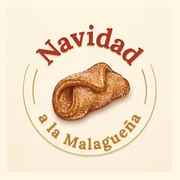
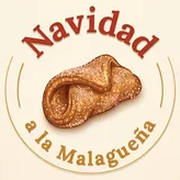
Icono de la pestaña con el sello de Navidad a la Malagueña (#6)
Añade favicon.ico (lo piden Safari y Google), recorta el sello para que
llene el icono y versiona los enlaces para que los navegadores dejen de
mostrar el icono antiguo guardado en caché.

Claude-Session: https://claude.ai/code/session_019w3N4vGLTzPmDHH7txA7v5

diff --git a/pestinos-malaga.html b/pestinos-malaga.html
@@ -19,9 +19,9 @@
   <meta property="og:image:height" content="630" />
   <meta property="article:modified_time" content="2026-10-27" />
   <meta name="twitter:card" content="summary_large_image" />
-  <link rel="icon" href="/favicon.svg" type="image/svg+xml" />
-  <link rel="icon" href="/favicon-48.png" type="image/png" sizes="48x48" />
-  <link rel="apple-touch-icon" href="/apple-touch-icon.png" />
+  <link rel="icon" href="/favicon.ico?v=3" sizes="any" />
+  <link rel="icon" href="/icon-192.png?v=3" type="image/png" sizes="192x192" />
+  <link rel="apple-touch-icon" href="/apple-touch-icon.png?v=3" />
   <link rel="preload" href="/fonts/fraunces-latin-opsz-normal.woff2" as="font" type="font/woff2" crossorigin />
   <link rel="preload" href="/fonts/dm-mono-latin-400.woff2" as="font" type="font/woff2" crossorigin />
   <script type="application/ld+json">{"@context": "https://schema.org", "@graph": [{"@type": "BreadcrumbList", "itemListElement": [{"@type": "ListItem", "position": 1, "name": "Inicio", "item": "https://www.xn--navidadalamalaguea-30b.com/"}, {"@type": "ListItem", "position": 2, "name": "Pestiños caseros con miel en Málaga", "item": "https://www.xn--navidadalamalaguea-30b.com/pestinos-malaga"}]}, {"@type": "WebPage", "@id": "https://www.xn--navidadalamalaguea-30b.com/pestinos-malaga", "url": "https://www.xn--navidadalamalaguea-30b.com/pestinos-malaga", "name": "Pestiños caseros con miel en Málaga · Navidad a la Malagueña", "dateModified": "2026-10-27", "speakable": {"@type": "SpeakableSpecification", "cssSelector": ["#resumen"]}, "description": "Pestiños caseros con miel hechos a mano en Málaga, en una caja de Navidad de 25 € lista para regalar. Gratis en Málaga capital y 3 € al resto de España.", "inLanguage": "es-ES", "about": {"@id": "https://www.xn--navidadalamalaguea-30b.com/#negocio"}, "mainEntity": {"@id": "https://www.xn--navidadalamalaguea-30b.com/pedido"}, "primaryImageOfPage": "https://www.xn--navidadalamalaguea-30b.com/img/dulces/pestinos-1000.webp"}, {"@type": "FAQPage", "mainEntity": [{"@type": "Question", "name": "¿Cuánto duran los pestiños caseros?", "acceptedAnswer": {"@type": "Answer", "text": "Hasta 20 días, bien cerrados en su caja o en una lata, en sitio fresco y seco. No hace falta nevera: la humedad los ablanda."}}, {"@type": "Question", "name": "¿Los pestiños llevan miel o azúcar?", "acceptedAnswer": {"@type": "Answer", "text": "Las dos versiones son tradicionales y tú eliges al pedir. La de miel es la más malagueña; la de azúcar, la que menos pringa. El precio no cambia."}}, {"@type": "Question", "name": "¿Qué diferencia hay entre pestiños y borrachuelos?", "acceptedAnswer": {"@type": "Answer", "text": "El pestiño es una tira de masa doblada, sin relleno, con ajonjolí y matalahúva. El borrachuelo es una empanadilla con vino moscatel en la masa y relleno de cabello de ángel. Los dos van en la caja."}}, {"@type": "Question", "name": "¿Hacéis envíos fuera de Málaga?", "acceptedAnswer": {"@type": "Answer", "text": "Sí, a toda España por Correos, por 3 €, con salida los lunes. De momento no enviamos fuera de España."}}, {"@type": "Question", "name": "¿Puedo pedir pestiños para mi empresa?", "acceptedAnswer": {"@type": "Answer", "text": "Sí. Escríbenos por WhatsApp al +34 744 47 52 39 con el número de cajas y la fecha, y te preparamos el pedido y el envío conjunto."}}]}]}</script>

diff --git a/borrachuelos-malaguenos.html b/borrachuelos-malaguenos.html
@@ -19,9 +19,9 @@
   <meta property="og:image:height" content="630" />
   <meta property="article:modified_time" content="2026-10-07" />
   <meta name="twitter:card" content="summary_large_image" />
-  <link rel="icon" href="/favicon.svg" type="image/svg+xml" />
-  <link rel="icon" href="/favicon-48.png" type="image/png" sizes="48x48" />
-  <link rel="apple-touch-icon" href="/apple-touch-icon.png" />
+  <link rel="icon" href="/favicon.ico?v=3" sizes="any" />
+  <link rel="icon" href="/icon-192.png?v=3" type="image/png" sizes="192x192" />
+  <link rel="apple-touch-icon" href="/apple-touch-icon.png?v=3" />
   <link rel="preload" href="/fonts/fraunces-latin-opsz-normal.woff2" as="font" type="font/woff2" crossorigin />
   <link rel="preload" href="/fonts/dm-mono-latin-400.woff2" as="font" type="font/woff2" crossorigin />
   <script type="application/ld+json">{"@context": "https://schema.org", "@graph": [{"@type": "BreadcrumbList", "itemListElement": [{"@type": "ListItem", "position": 1, "name": "Inicio", "item": "https://www.xn--navidadalamalaguea-30b.com/"}, {"@type": "ListItem", "position": 2, "name": "Borrachuelos de Málaga", "item": "https://www.xn--navidadalamalaguea-30b.com/borrachuelos-malaguenos"}]}, {"@type": "WebPage", "@id": "https://www.xn--navidadalamalaguea-30b.com/borrachuelos-malaguenos", "url": "https://www.xn--navidadalamalaguea-30b.com/borrachuelos-malaguenos", "name": "Borrachuelos malagueños caseros · Navidad a la Malagueña", "dateModified": "2026-10-07", "speakable": {"@type": "SpeakableSpecification", "cssSelector": ["#resumen"]}, "description": "Borrachuelos de Málaga al vino moscatel, rellenos de cabello de ángel y pasados por azúcar. Hechos a mano con la receta de la abuela. En nuestra caja de Navidad, 25 €.", "inLanguage": "es-ES", "about": {"@id": "https://www.xn--navidadalamalaguea-30b.com/#negocio"}, "primaryImageOfPage": "https://www.xn--navidadalamalaguea-30b.com/img/dulces/borrachuelos-1000.webp"}, {"@type": "FAQPage", "mainEntity": [{"@type": "Question", "name": "¿Los borrachuelos llevan alcohol?", "acceptedAnswer": {"@type": "Answer", "text": "La masa lleva vino moscatel, pero al freírse la mayor parte del alcohol se evapora. Si tienes dudas, pregúntanos."}}, {"@type": "Question", "name": "¿Qué alérgenos llevan?", "acceptedAnswer": {"@type": "Answer", "text": "Llevan harina de trigo (gluten). Pregúntanos si tienes cualquier otra alergia."}}]}]}</script>

diff --git a/la-sobremesa/plantilla-articulo.html b/la-sobremesa/plantilla-articulo.html
@@ -32,9 +32,9 @@
   <meta property="og:image:height" content="630" />
   <meta property="article:modified_time" content="2026-11-01" />
   <meta name="twitter:card" content="summary_large_image" />
-  <link rel="icon" href="/favicon.svg" type="image/svg+xml" />
-  <link rel="icon" href="/favicon-48.png" type="image/png" sizes="48x48" />
-  <link rel="apple-touch-icon" href="/apple-touch-icon.png" />
+  <link rel="icon" href="/favicon.ico?v=3" sizes="any" />
+  <link rel="icon" href="/icon-192.png?v=3" type="image/png" sizes="192x192" />
+  <link rel="apple-touch-icon" href="/apple-touch-icon.png?v=3" />
   <link rel="preload" href="/fonts/fraunces-latin-opsz-normal.woff2" as="font" type="font/woff2" crossorigin />
   <link rel="preload" href="/fonts/dm-mono-latin-400.woff2" as="font" type="font/woff2" crossorigin />
   <script type="application/ld+json">{"@context": "https://schema.org", "@graph": [{"@type": "BreadcrumbList", "itemListElement": [{"@type": "ListItem", "position": 1, "name": "Inicio", "item": "https://www.xn--navidadalamalaguea-30b.com/"}, {"@type": "ListItem", "position": 2, "name": "La Sobremesa", "item": "https://www.xn--navidadalamalaguea-30b.com/la-sobremesa"}, {"@type": "ListItem", "position": 3, "name": "TÍTULO DEL ARTÍCULO", "item": "https://www.xn--navidadalamalaguea-30b.com/la-sobremesa/plantilla-articulo"}]}, {"@type": "BlogPosting", "@id": "https://www.xn--navidadalamalaguea-30b.com/la-sobremesa/plantilla-articulo#articulo", "mainEntityOfPage": "https://www.xn--navidadalamalaguea-30b.com/la-sobremesa/plantilla-articulo", "headline": "TÍTULO DEL ARTÍCULO", "description": "RESUMEN EN UNA FRASE", "datePublished": "2026-11-01", "dateModified": "2026-11-01", "inLanguage": "es-ES", "image": "https://www.xn--navidadalamalaguea-30b.com/og.png", "author": {"@type": "Organization", "name": "Navidad a la Malagueña", "url": "https://www.xn--navidadalamalaguea-30b.com/"}, "publisher": {"@id": "https://www.xn--navidadalamalaguea-30b.com/#negocio"}, "isPartOf": {"@id": "https://www.xn--navidadalamalaguea-30b.com/la-sobremesa#blog"}}]}</script>

diff --git a/index.html b/index.html
@@ -18,9 +18,9 @@
   <meta property="og:image:width" content="1200" />
   <meta property="og:image:height" content="630" />
   <meta name="twitter:card" content="summary_large_image" />
-  <link rel="icon" href="/favicon.svg" type="image/svg+xml" />
-  <link rel="icon" href="/favicon-48.png" type="image/png" sizes="48x48" />
-  <link rel="apple-touch-icon" href="/apple-touch-icon.png" />
+  <link rel="icon" href="/favicon.ico?v=3" sizes="any" />
+  <link rel="icon" href="/icon-192.png?v=3" type="image/png" sizes="192x192" />
+  <link rel="apple-touch-icon" href="/apple-touch-icon.png?v=3" />
   <link rel="preload" href="/fonts/fraunces-latin-opsz-normal.woff2" as="font" type="font/woff2" crossorigin />
   <link rel="preload" href="/fonts/dm-mono-latin-400.woff2" as="font" type="font/woff2" crossorigin />
   <link rel="preload" as="image" href="/img/historicas/plaza-constitucion-1890.webp" imagesrcset="/img/historicas/plaza-constitucion-1890-600.webp 600w, /img/historicas/plaza-constitucion-1890.webp 1002w" imagesizes="100vw" />

diff --git a/gracias.html b/gracias.html
@@ -18,9 +18,9 @@
   <meta property="og:image:width" content="1200" />
   <meta property="og:image:height" content="630" />
   <meta name="twitter:card" content="summary_large_image" />
-  <link rel="icon" href="/favicon.svg" type="image/svg+xml" />
-  <link rel="icon" href="/favicon-48.png" type="image/png" sizes="48x48" />
-  <link rel="apple-touch-icon" href="/apple-touch-icon.png" />
+  <link rel="icon" href="/favicon.ico?v=3" sizes="any" />
+  <link rel="icon" href="/icon-192.png?v=3" type="image/png" sizes="192x192" />
+  <link rel="apple-touch-icon" href="/apple-touch-icon.png?v=3" />
   <link rel="preload" href="/fonts/fraunces-latin-opsz-normal.woff2" as="font" type="font/woff2" crossorigin />
   <link rel="preload" href="/fonts/dm-mono-latin-400.woff2" as="font" type="font/woff2" crossorigin />
   <link rel="stylesheet" href="/recetario.css?v=2" />

diff --git a/la-sobremesa.html b/la-sobremesa.html
@@ -18,9 +18,9 @@
   <meta property="og:image:width" content="1200" />
   <meta property="og:image:height" content="630" />
   <meta name="twitter:card" content="summary_large_image" />
-  <link rel="icon" href="/favicon.svg" type="image/svg+xml" />
-  <link rel="icon" href="/favicon-48.png" type="image/png" sizes="48x48" />
-  <link rel="apple-touch-icon" href="/apple-touch-icon.png" />
+  <link rel="icon" href="/favicon.ico?v=3" sizes="any" />
+  <link rel="icon" href="/icon-192.png?v=3" type="image/png" sizes="192x192" />
+  <link rel="apple-touch-icon" href="/apple-touch-icon.png?v=3" />
   <link rel="preload" href="/fonts/fraunces-latin-opsz-normal.woff2" as="font" type="font/woff2" crossorigin />
   <link rel="preload" href="/fonts/dm-mono-latin-400.woff2" as="font" type="font/woff2" crossorigin />
   <link rel="stylesheet" href="/recetario.css?v=2" />

diff --git a/pedido.html b/pedido.html
@@ -18,9 +18,9 @@
   <meta property="og:image:width" content="1200" />
   <meta property="og:image:height" content="630" />
   <meta name="twitter:card" content="summary_large_image" />
-  <link rel="icon" href="/favicon.svg" type="image/svg+xml" />
-  <link rel="icon" href="/favicon-48.png" type="image/png" sizes="48x48" />
-  <link rel="apple-touch-icon" href="/apple-touch-icon.png" />
+  <link rel="icon" href="/favicon.ico?v=3" sizes="any" />
+  <link rel="icon" href="/icon-192.png?v=3" type="image/png" sizes="192x192" />
+  <link rel="apple-touch-icon" href="/apple-touch-icon.png?v=3" />
   <link rel="preload" href="/fonts/fraunces-latin-opsz-normal.woff2" as="font" type="font/woff2" crossorigin />
   <link rel="preload" href="/fonts/dm-mono-latin-400.woff2" as="font" type="font/woff2" crossorigin />
   <link rel="stylesheet" href="/recetario.css?v=2" />

diff --git a/preguntas.html b/preguntas.html
@@ -18,9 +18,9 @@
   <meta property="og:image:width" content="1200" />
   <meta property="og:image:height" content="630" />
   <meta name="twitter:card" content="summary_large_image" />
-  <link rel="icon" href="/favicon.svg" type="image/svg+xml" />
-  <link rel="icon" href="/favicon-48.png" type="image/png" sizes="48x48" />
-  <link rel="apple-touch-icon" href="/apple-touch-icon.png" />
+  <link rel="icon" href="/favicon.ico?v=3" sizes="any" />
+  <link rel="icon" href="/icon-192.png?v=3" type="image/png" sizes="192x192" />
+  <link rel="apple-touch-icon" href="/apple-touch-icon.png?v=3" />
   <link rel="preload" href="/fonts/fraunces-latin-opsz-normal.woff2" as="font" type="font/woff2" crossorigin />
   <link rel="preload" href="/fonts/dm-mono-latin-400.woff2" as="font" type="font/woff2" crossorigin />
   <link rel="stylesheet" href="/recetario.css?v=2" />

diff --git a/politica-privacidad.html b/politica-privacidad.html
@@ -8,9 +8,9 @@
   <meta name="robots" content="noindex, follow" />
   <link rel="canonical" href="https://www.xn--navidadalamalaguea-30b.com/politica-privacidad" />
   <meta name="theme-color" content="#FFF6E6" />
-  <link rel="icon" href="/favicon.svg" type="image/svg+xml" />
-  <link rel="icon" href="/favicon-48.png" type="image/png" sizes="48x48" />
-  <link rel="apple-touch-icon" href="/apple-touch-icon.png" />
+  <link rel="icon" href="/favicon.ico?v=3" sizes="any" />
+  <link rel="icon" href="/icon-192.png?v=3" type="image/png" sizes="192x192" />
+  <link rel="apple-touch-icon" href="/apple-touch-icon.png?v=3" />
   <link rel="stylesheet" href="/recetario.css?v=2" />
 </head>
 <body>

diff --git a/condiciones-venta.html b/condiciones-venta.html
@@ -8,9 +8,9 @@
   <meta name="robots" content="noindex, follow" />
   <link rel="canonical" href="https://www.xn--navidadalamalaguea-30b.com/condiciones-venta" />
   <meta name="theme-color" content="#FFF6E6" />
-  <link rel="icon" href="/favicon.svg" type="image/svg+xml" />
-  <link rel="icon" href="/favicon-48.png" type="image/png" sizes="48x48" />
-  <link rel="apple-touch-icon" href="/apple-touch-icon.png" />
+  <link rel="icon" href="/favicon.ico?v=3" sizes="any" />
+  <link rel="icon" href="/icon-192.png?v=3" type="image/png" sizes="192x192" />
+  <link rel="apple-touch-icon" href="/apple-touch-icon.png?v=3" />
   <link rel="stylesheet" href="/recetario.css?v=2" />
 </head>
 <body>

diff --git a/politica-cookies.html b/politica-cookies.html
@@ -8,9 +8,9 @@
   <meta name="robots" content="noindex, follow" />
   <link rel="canonical" href="https://www.xn--navidadalamalaguea-30b.com/politica-cookies" />
   <meta name="theme-color" content="#FFF6E6" />
-  <link rel="icon" href="/favicon.svg" type="image/svg+xml" />
-  <link rel="icon" href="/favicon-48.png" type="image/png" sizes="48x48" />
-  <link rel="apple-touch-icon" href="/apple-touch-icon.png" />
+  <link rel="icon" href="/favicon.ico?v=3" sizes="any" />
+  <link rel="icon" href="/icon-192.png?v=3" type="image/png" sizes="192x192" />
+  <link rel="apple-touch-icon" href="/apple-touch-icon.png?v=3" />
   <link rel="stylesheet" href="/recetario.css?v=2" />
 </head>
 <body>

diff --git a/aviso-legal.html b/aviso-legal.html
@@ -8,9 +8,9 @@
   <meta name="robots" content="noindex, follow" />
   <link rel="canonical" href="https://www.xn--navidadalamalaguea-30b.com/aviso-legal" />
   <meta name="theme-color" content="#FFF6E6" />
-  <link rel="icon" href="/favicon.svg" type="image/svg+xml" />
-  <link rel="icon" href="/favicon-48.png" type="image/png" sizes="48x48" />
-  <link rel="apple-touch-icon" href="/apple-touch-icon.png" />
+  <link rel="icon" href="/favicon.ico?v=3" sizes="any" />
+  <link rel="icon" href="/icon-192.png?v=3" type="image/png" sizes="192x192" />
+  <link rel="apple-touch-icon" href="/apple-touch-icon.png?v=3" />
   <link rel="stylesheet" href="/recetario.css?v=2" />
 </head>
 <body>
